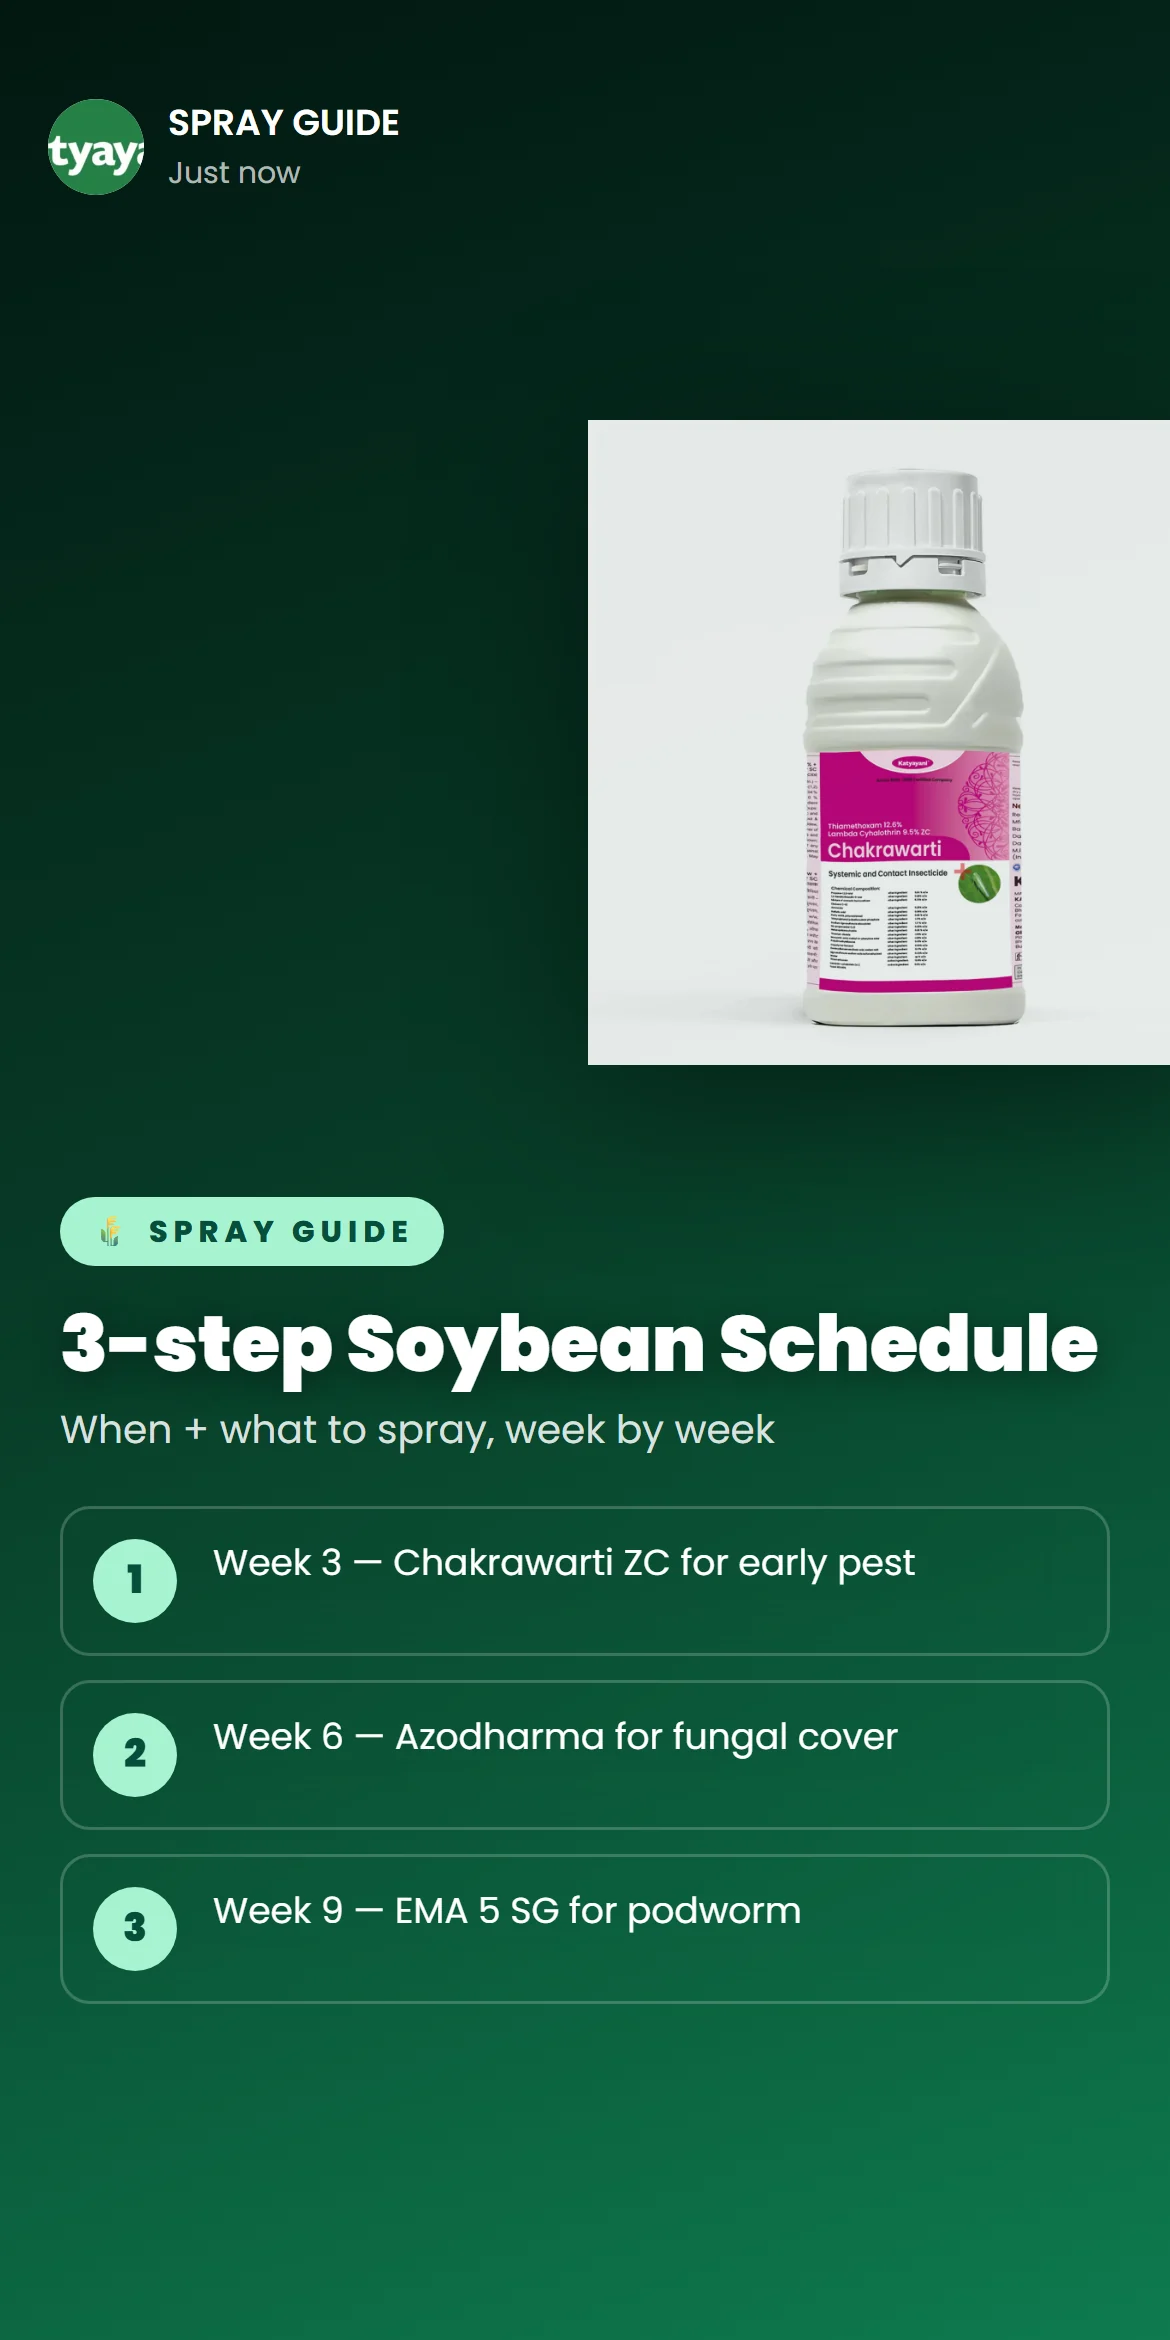
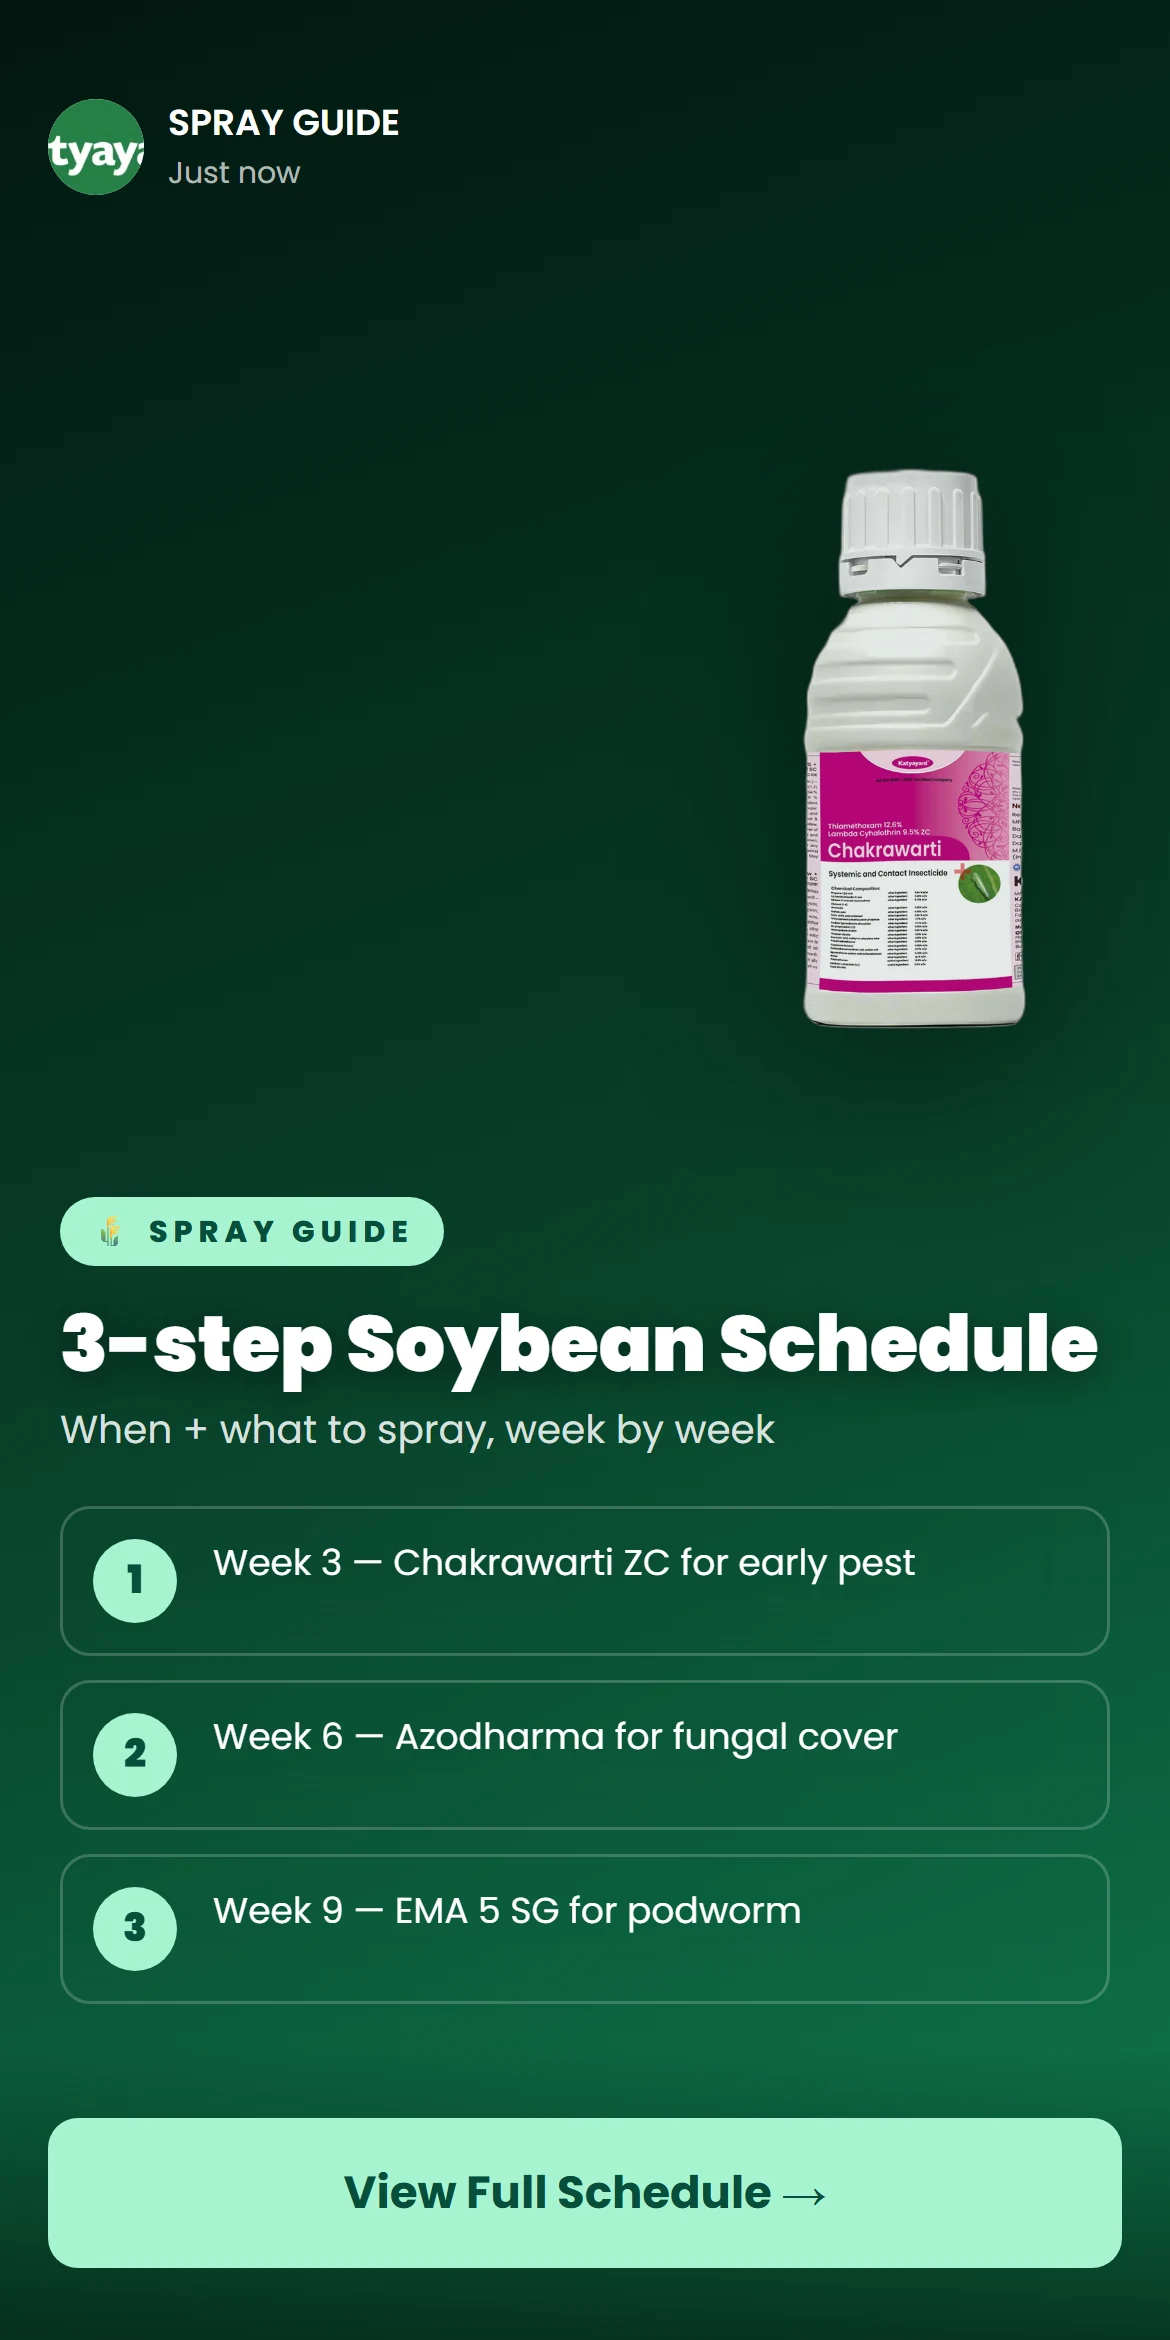
Remove Licence type row; cut white bg off Spray Guide + 15% Margin story product images (rembg transparent PNG, not overlay)

Changed region(s): [[0.4923, 0.156, 1.0, 0.4679], [0.0, 0.9047, 1.0, 1.0]]

diff --git a/screens/pesticide-license-view.html b/screens/pesticide-license-view.html
@@ -69,10 +69,6 @@
         <span class="text-[14px] font-semibold text-[#1C1C1C]">Katyayani Organics</span>
       </div>
       <div class="flex items-center justify-between px-4 py-3.5 border-b border-[#EDEDED]">
-        <span class="text-[13px] text-[#606060]">Licence type</span>
-        <span class="text-[14px] font-semibold text-[#1C1C1C]">Pesticide · Form III</span>
-      </div>
-      <div class="flex items-center justify-between px-4 py-3.5 border-b border-[#EDEDED]">
         <span class="text-[13px] text-[#606060]">Issue Date</span>
         <span class="text-[14px] font-semibold text-[#1C1C1C]">13 Jun 2023</span>
       </div>
@@ -106,10 +102,6 @@
       <div class="flex items-center justify-between px-4 py-3.5 border-b border-[#EDEDED]">
         <span class="text-[13px] text-[#606060]">Shop Name</span>
         <span class="text-[14px] font-semibold text-[#1C1C1C]">Katyayani Organics</span>
-      </div>
-      <div class="flex items-center justify-between px-4 py-3.5 border-b border-[#EDEDED]">
-        <span class="text-[13px] text-[#606060]">Licence type</span>
-        <span class="text-[14px] font-semibold text-[#1C1C1C]">Fertilizer · Form O-1</span>
       </div>
       <div class="flex items-center justify-between px-4 py-3.5 border-b border-[#EDEDED]">
         <span class="text-[13px] text-[#606060]">Issue Date</span>

diff --git a/screens/home.html b/screens/home.html
@@ -1921,7 +1921,7 @@ function renderCropGrid(key) {
     },
     'spray-guide': {
       bg: 'linear-gradient(160deg,#021710 0%,#083D28 50%,#0E7A4E 100%)',
-      img: 'https://katyayanikrishidirect.com/cdn/shop/files/Chakrawarti_2.webp',
+      img: '../assets/products/chakrawarti-cutout.png',
       tag: '🌾 SPRAY GUIDE',
       tagBg: '#A7F3D0', tagColor: '#064E3B',
       headline: '3-step Soybean Schedule',
@@ -1940,7 +1940,7 @@ function renderCropGrid(key) {
     },
     'margin-boost': {
       bg: 'linear-gradient(160deg,#052E16 0%,#0C831F 60%,#16A34A 100%)',
-      img: 'https://katyayanikrishidirect.com/cdn/shop/files/AZODHARMA_3.webp',
+      img: '../assets/products/azodharma-cutout.png',
       tag: '💰 +15% MARGIN',
       tagBg: '#FFE08A', tagColor: '#052E16',
       headline: 'Azodharma Combo',